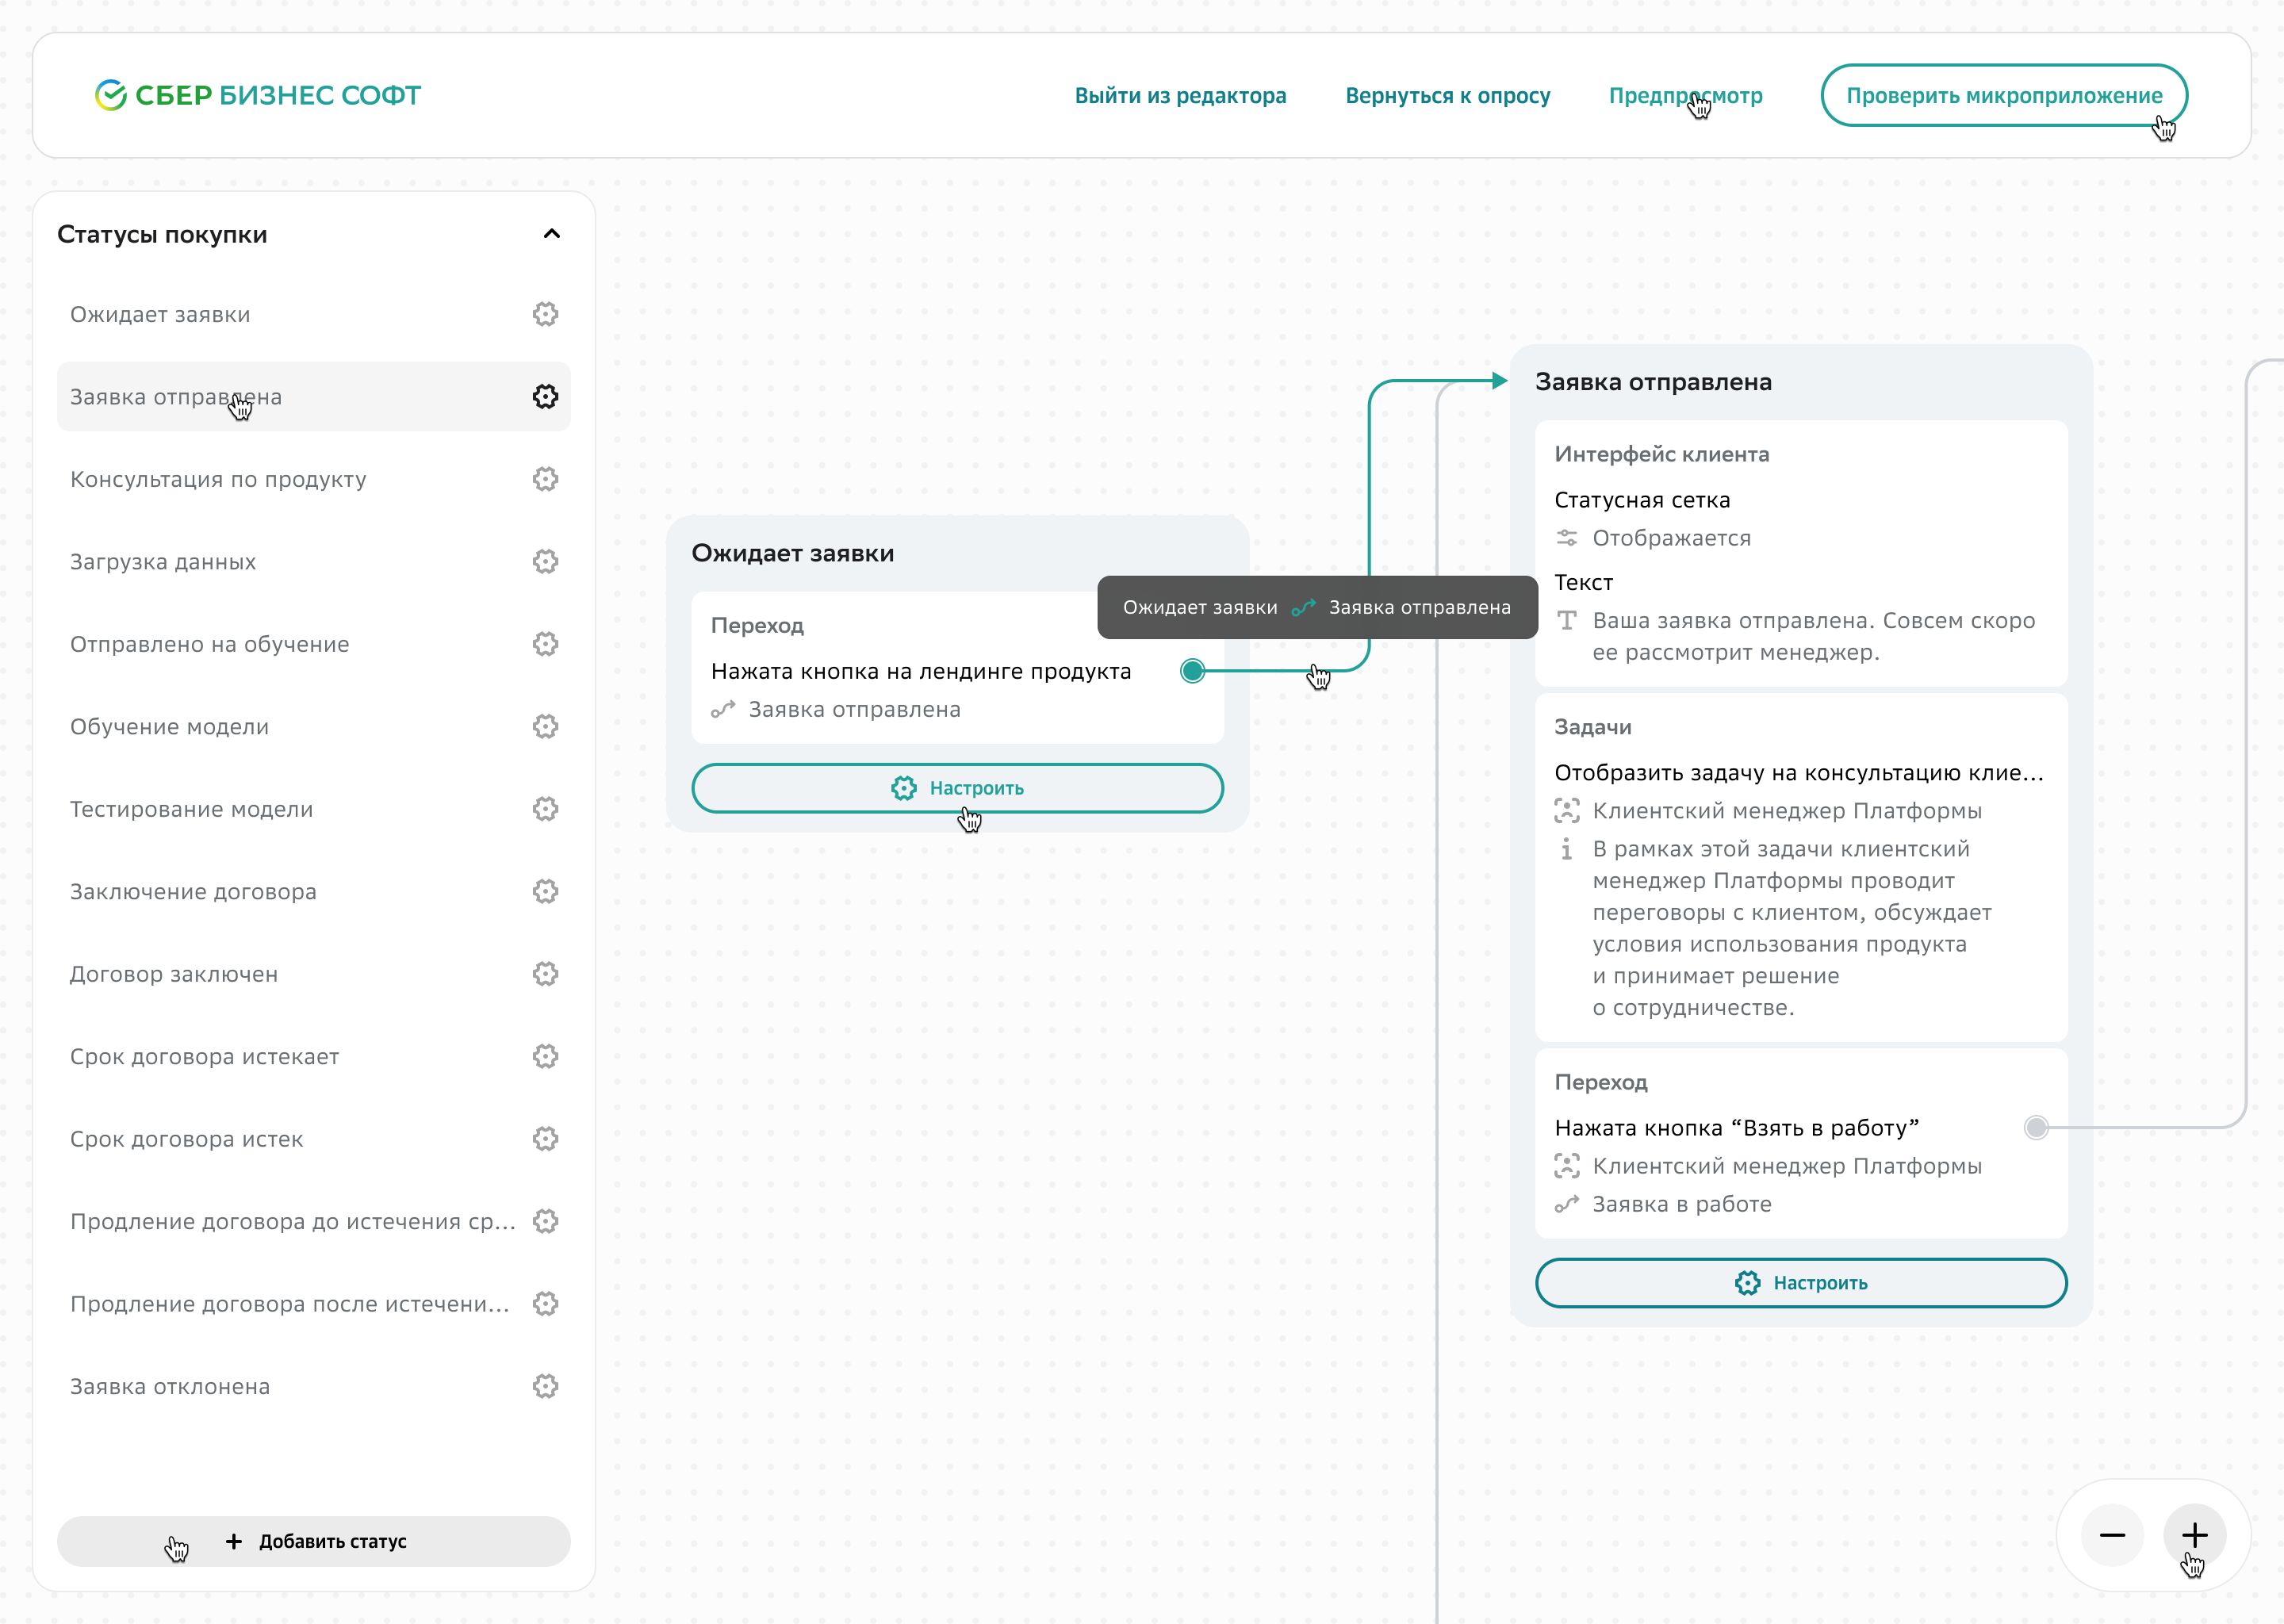
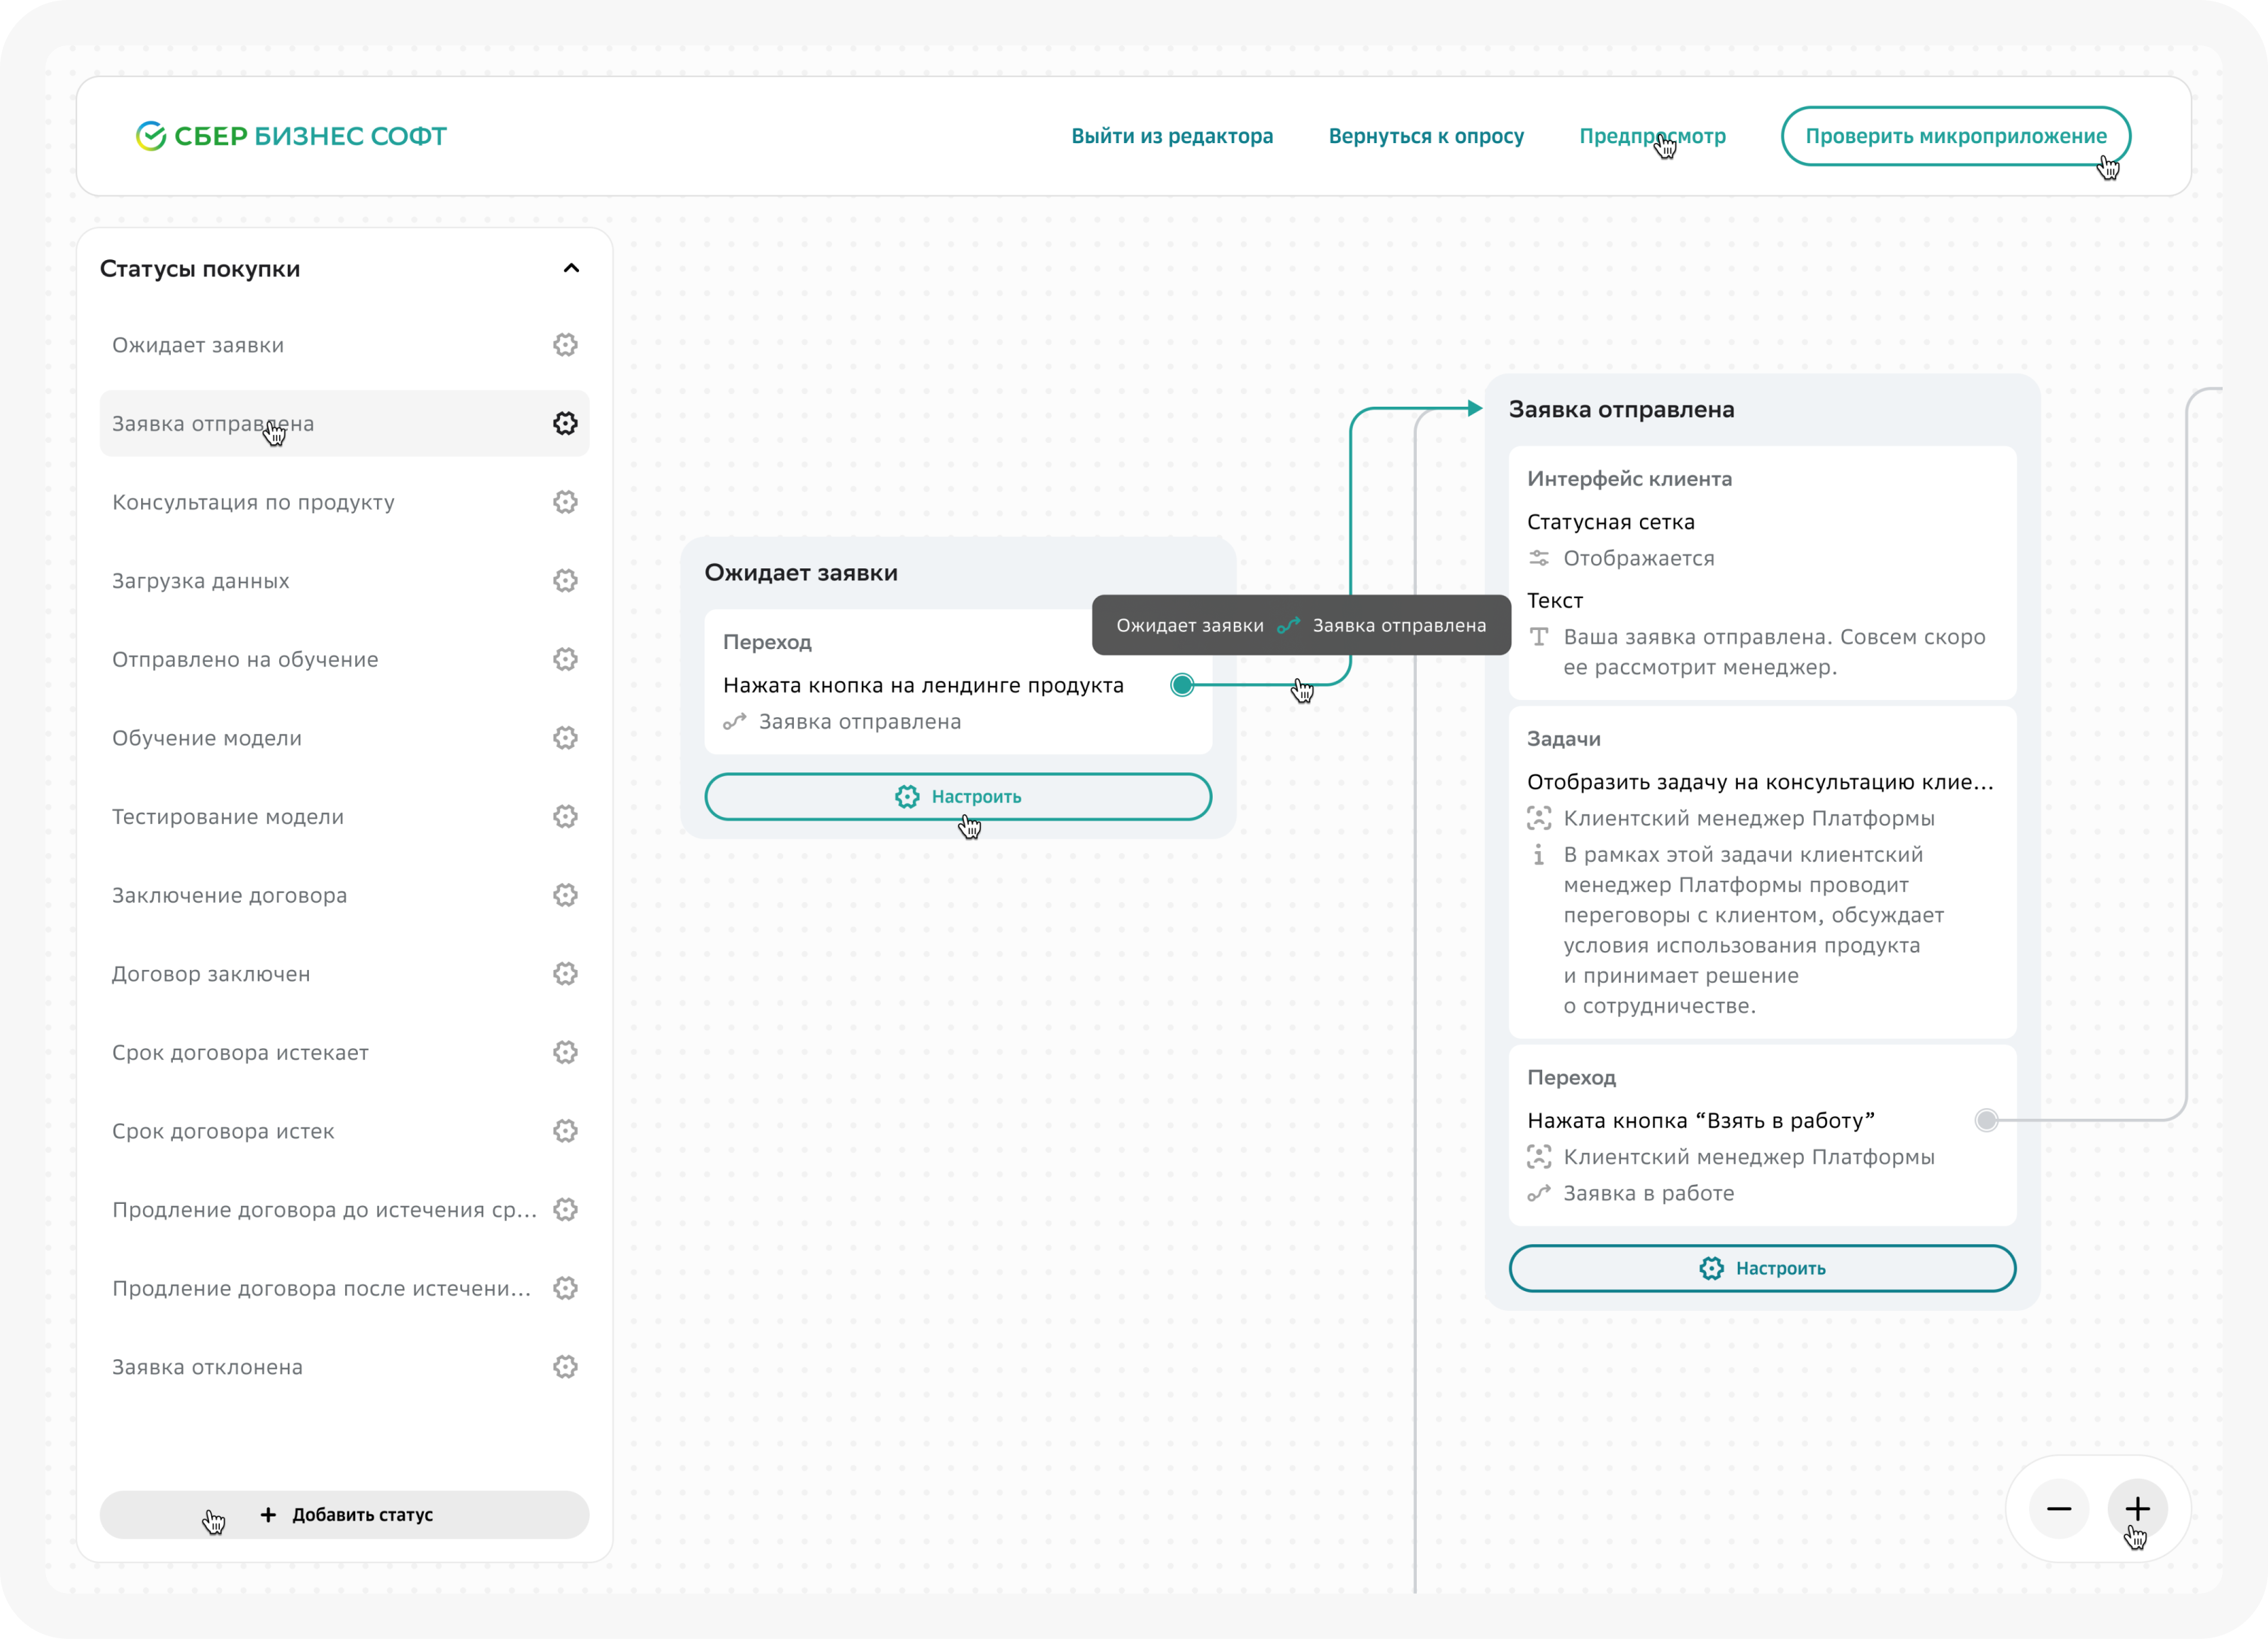
Update client interface builder case page
- Show a static header on case pages, 68px above the content
- Add a scroll indicator under horizontal-scroll galleries
- Refresh cover, sketch and main-screen images, add builder-stages
- Redesign the research blocks as white cards with colored tags
- Replace the final mockups image with result cards
- Rework image captions per Figma

diff --git a/src/i18n/en.ts b/src/i18n/en.ts
@@ -87,6 +87,8 @@ export const EN: Record<string, string> = {
   'Количество': 'Count',
   'Очное модерируемое': 'In-person, moderated',
   'Ключевые инсайты': 'Key insights',
+  'Методология': 'Methodology',
+  'Прототип': 'Prototype',
   'Бизнес-цели и ключевые результаты': 'Business goals and key results',
   'Цель исследования': 'Research goal',
   'Предполагаемый результат': 'Expected outcome',
@@ -105,7 +107,8 @@ export const EN: Record<string, string> = {
     'Design a flexible, intuitive tool for AI product owners',
   'Кастомная разработка интерфейсов под каждый продукт требовала огромных ресурсов, а загрузка чужого кода на платформу создавала риски безопасности. С командой аналитики пришли к выводу, что решение — конструктор с готовыми блоками':
     "Custom interface development for every product required huge resources, and uploading third-party code to the platform created security risks. Together with analysts, we concluded the solution was a builder with ready-made blocks",
-  'Скетч аналитиков на старте': "Analysts' initial sketch",
+  'Этапы создания клиентского интерфейса в конструкторе':
+    'Stages of building a client interface in the builder',
   'Дискавери': 'Discovery',
   'Изучил смежные решения, так как прямых аналогов не было': 'Studied adjacent solutions, since there were no direct competitors',
   'Я проанализировал интерфейсы конструкторов бизнес-процессов и сценариев, low-code платформы с визуальной сборкой, конструкторы чат-ботов':

diff --git a/src/styles/tokens.css b/src/styles/tokens.css
@@ -9,6 +9,8 @@
   --color-zinc-dust: #5b5b5b; /* Zinc dust */
   --color-blue-dusk: #8c929c; /* Blue dusk */
   --color-green-teal: #1bb87c; /* Green teal */
+  --color-sky: #38c9ff; /* Sky — тег «Методология» */
+  --color-mint: #2af5a7; /* Mint — тег «Ключевые инсайты» */
   --color-errigal-white: #f2f2f4; /* Errigal white */
   --color-dr-white: #fafafa; /* Dr.White */
 